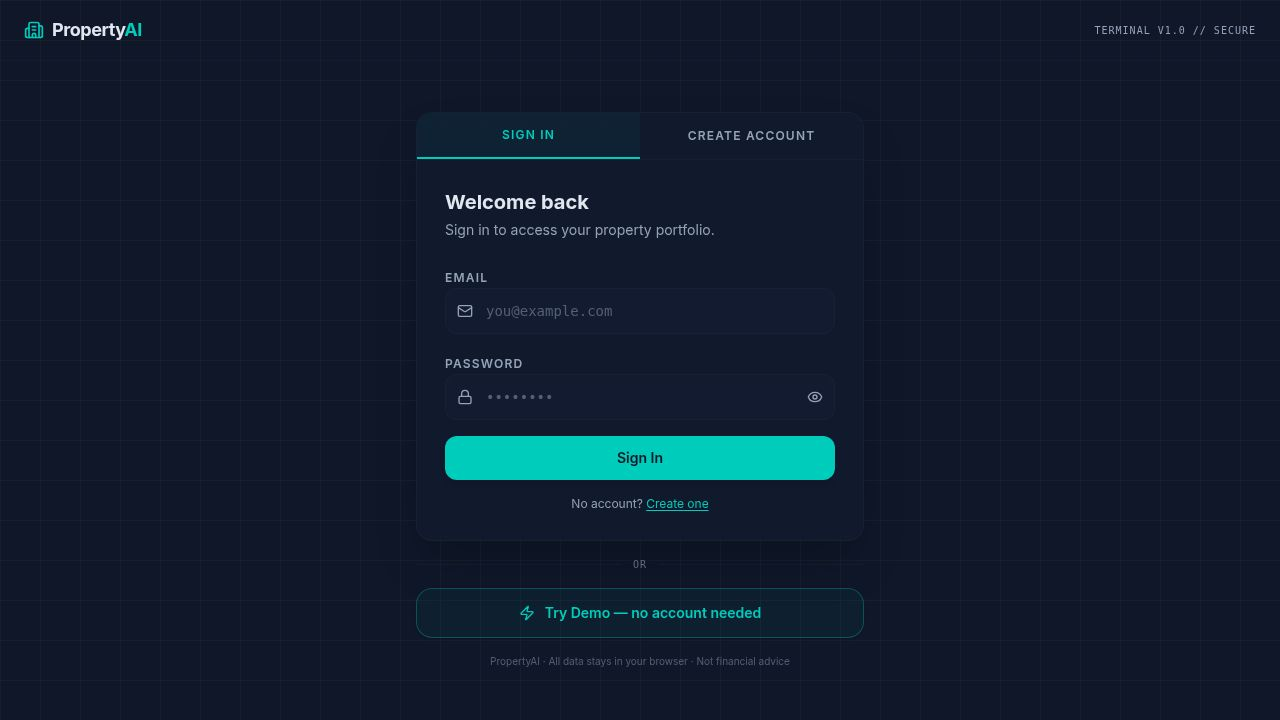
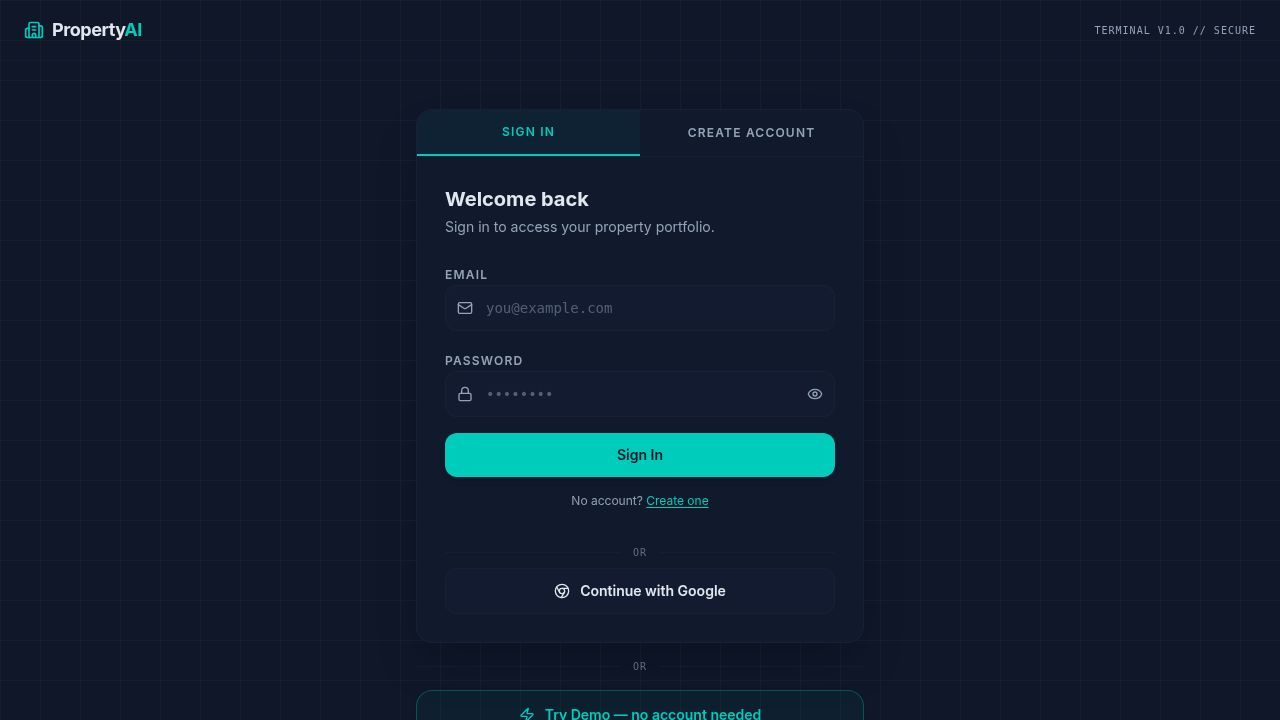
Update property form to display saved data correctly
Pass saved property data to the PropertyForm component and ensure it resets when the data changes.

Replit-Commit-Author: Agent
Replit-Commit-Session-Id: 917e3665-1ee7-48b0-b751-2428b1708223
Replit-Commit-Checkpoint-Type: full_checkpoint
Replit-Commit-Event-Id: a097934b-1b28-41aa-85af-aa540c37a481
Replit-Commit-Screenshot-Url: https://storage.googleapis.com/screenshot-production-us-central1/96fc2ea9-9f93-4dff-93c4-ae022b6760fc/917e3665-1ee7-48b0-b751-2428b1708223/zWX4K4r
Replit-Helium-Checkpoint-Created: true

diff --git a/artifacts/property-ai/src/components/PropertyForm.tsx b/artifacts/property-ai/src/components/PropertyForm.tsx
@@ -1,6 +1,6 @@
 import { useForm } from "react-hook-form";
 import { zodResolver } from "@hookform/resolvers/zod";
-import { propertySchema, PropertyData, defaultPropertyData } from "@/lib/calculations";
+import { propertySchema, PropertyData } from "@/lib/calculations";
 import {
   Form,
   FormControl,
@@ -14,15 +14,20 @@ import { DollarSign, Building2, TrendingUp, Percent, Wallet } from "lucide-react
 import { useEffect } from "react";
 
 interface PropertyFormProps {
+  data: PropertyData;
   onChange: (data: PropertyData) => void;
 }
 
-export default function PropertyForm({ onChange }: PropertyFormProps) {
+export default function PropertyForm({ data, onChange }: PropertyFormProps) {
   const form = useForm<PropertyData>({
     resolver: zodResolver(propertySchema),
-    defaultValues: defaultPropertyData,
+    defaultValues: data,
     mode: "onChange"
   });
+
+  useEffect(() => {
+    form.reset(data);
+  }, [data, form]);
 
   useEffect(() => {
     const subscription = form.watch((value) => {

diff --git a/artifacts/property-ai/src/App.tsx b/artifacts/property-ai/src/App.tsx
@@ -390,7 +390,7 @@ function Home({ isDemoMode }: { isDemoMode: boolean }) {
                 </div>
 
                 <div className="bg-card/30 p-6 md:p-8 rounded-2xl border border-border/50">
-                  <PropertyForm onChange={setSingleData} />
+                  <PropertyForm data={singleData} onChange={setSingleData} />
                 </div>
               </div>
               <div className="lg:col-span-5 lg:sticky lg:top-24">